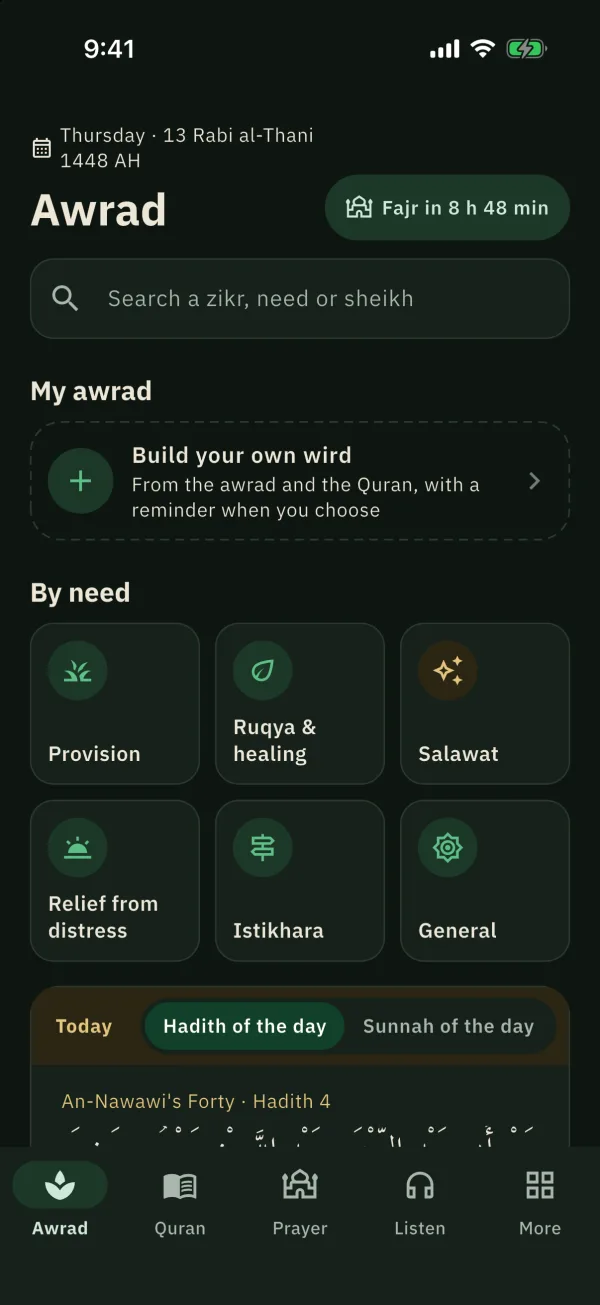
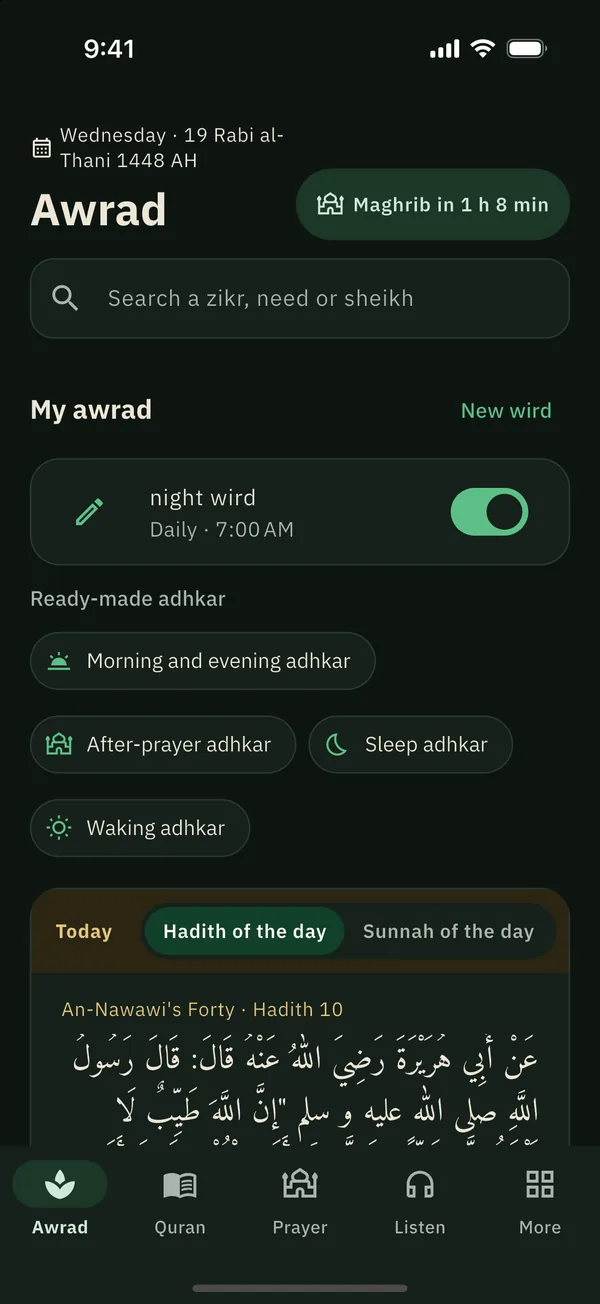
Wirdi 1.3 case study: new screenshots and details
Nine fresh screenshots, updated numbers, the features added since 1.2
and two new sections on the Mushaf rebuild and on content and accessibility.

diff --git a/work/wirdi.html b/work/wirdi.html
@@ -4,9 +4,9 @@
 <meta charset="utf-8">
 <meta name="viewport" content="width=device-width, initial-scale=1">
 <title>Wirdi — Ayman Omara</title>
-<meta name="description" content="Wirdi, a Flutter app for the daily wird, the Quran and prayer times: designed and built solo, with a native Android adhan plugin and home-screen widgets.">
+<meta name="description" content="Wirdi, a Flutter app for the daily wird, the Quran and prayer times: designed and built solo, with a native Android adhan plugin, home-screen widgets and on-device recitation checking.">
 <meta property="og:title" content="Wirdi — case study by Ayman Omara">
-<meta property="og:description" content="Wirdi, a Flutter app for the daily wird, the Quran and prayer times: designed and built solo, with a native Android adhan plugin and home-screen widgets.">
+<meta property="og:description" content="Wirdi, a Flutter app for the daily wird, the Quran and prayer times: designed and built solo, with a native Android adhan plugin, home-screen widgets and on-device recitation checking.">
 <meta property="og:image" content="https://aymanomara.github.io/assets/social-preview.png">
 <meta property="og:type" content="article">
 <meta name="twitter:card" content="summary_large_image">
@@ -39,25 +39,35 @@
     <a class="case-back" href="../#project-wirdi"><span aria-hidden="true">←</span> All work</a>
     <div class="eyebrow">CASE STUDY · PERSONAL PRODUCT · FLUTTER</div>
     <h1>Your daily wird, the Quran and prayer times in one app.</h1>
-    <p class="lead">Wirdi (وِردي) brings awrad and adhkar, the Quran with recitations and tafsir, and prayer times with the adhan into one Arabic and English app. I designed and built it on my own, from the architecture to the native Android parts.</p>
-    <div class="case-facts"><div><b>19</b><span>Features</span></div><div><b>247</b><span>Of 249 commits</span></div><div><b>740+</b><span>Automated tests</span></div><div><b>2</b><span>Languages, with RTL</span></div></div>
+    <p class="lead">Wirdi (وِردي) brings awrad and adhkar, the Quran with recitations, tafsir and a memorization plan, and prayer times with the adhan into one Arabic and English app. I designed and built it on my own, from the architecture to the native Android parts.</p>
+    <div class="case-facts"><div><b>23</b><span>Feature modules</span></div><div><b>502</b><span>Of 518 commits</span></div><div><b>1,400+</b><span>Automated tests</span></div><div><b>2</b><span>Languages, with RTL</span></div></div>
   </div>
 </header>
 <section style="padding-top:0">
   <div class="wrap">
     <figure class="case-screens-wrap" style="margin:0;--glow:#0f7a47">
-      <div class="case-screens"><div class="phone phone-shot"><div class="phone-screen"><img src="../assets/wirdi/quran.webp" alt="Quran reader showing Surah Al Fatiha" width="600" height="1304" loading="lazy" decoding="async"></div></div><div class="phone phone-shot"><div class="phone-screen"><img src="../assets/wirdi/home.webp" alt="Awrad home screen with search, your own wird and awrad by need" width="600" height="1304" loading="lazy" decoding="async"></div></div><div class="phone phone-shot"><div class="phone-screen"><img src="../assets/wirdi/prayer.webp" alt="Prayer times with the next prayer and a countdown" width="600" height="1304" loading="lazy" decoding="async"></div></div></div>
-      <figcaption>Real screenshots from the iOS app in dark mode. Prayer times shown for Riyadh.</figcaption>
+      <div class="case-screens"><div class="phone phone-shot"><div class="phone-screen"><img src="../assets/wirdi/quran.webp?v=1.3" alt="Mushaf page reader showing Surah Al Fatiha" width="600" height="1304" loading="lazy" decoding="async"></div></div><div class="phone phone-shot"><div class="phone-screen"><img src="../assets/wirdi/home.webp?v=1.3" alt="Awrad home screen with search, my awrad, ready-made adhkar and the hadith of the day" width="600" height="1304" loading="lazy" decoding="async"></div></div><div class="phone phone-shot"><div class="phone-screen"><img src="../assets/wirdi/prayer.webp?v=1.3" alt="Prayer times with the next prayer, a countdown and the prayer log" width="600" height="1304" loading="lazy" decoding="async"></div></div></div>
+      <figcaption>Real screenshots from the iOS app in dark mode. Prayer times shown for Cairo.</figcaption>
     </figure>
   </div>
 </section>
 <section>
   <div class="wrap">
     <div class="case-body"><h2>The problem</h2><div><p>A daily wird usually means several apps: one for adhkar, one for the Quran, one for prayer times and the adhan. Wirdi puts them in one place, arranged <strong>by need</strong>: provision, healing, relief from distress, istikhara and more, with a counter for each zikr.</p></div></div>
-    <div class="case-body"><h2>What I built</h2><div><ul><li><strong>Awrad and your own wird</strong>: awrad and adhkar by need with a counter, favourites, search, and a personal wird built from the awrad and the Quran with a reminder at the time you choose.</li><li><strong>The Quran</strong>: a Mushaf page reader, surahs, juz and bookmarks, recitations from chosen reciters that keep playing in the background, live Quran radio from Cairo and Saudi Arabia, and tafsir read ayah by ayah.</li><li><strong>Prayer</strong>: times for your location, the next prayer with a countdown, a choice of adhan voice, and a qibla compass.</li><li><strong>Library</strong>: a hadith and a sunnah every day, the six hadith books and the forties, and a Hijri calendar with occasions and the Ramadan timetable.</li><li>A guided onboarding and an in-app tour, Arabic and English with RTL, and light and dark themes.</li></ul></div></div>
-    <div class="case-body"><h2>Native Android</h2><div><p>Notifications alone could not play a full adhan reliably, so I wrote a <strong>local Android plugin</strong> in Kotlin. It schedules each prayer with <code>AlarmManager.setAlarmClock</code>, falls back when exact alarms aren’t allowed, and plays the adhan from a foreground media service with a Stop action, <strong>even when the app is closed</strong>. Workmanager keeps the schedule current from a background isolate.</p><p>Three <strong>home-screen widgets</strong> (next prayer, today’s prayers and the Hijri date) are also native Kotlin.</p></div></div>
-    <div class="case-body"><h2>Architecture</h2><div><div class="layers"><div class="layer"><code>lib</code><span>Screens and one Cubit per screen, 19 feature folders</span></div><div class="layer-arrow" aria-hidden="true">↓ depends on</div><div class="layer"><code>di</code><span>get_it registration that wires the layers together</span></div><div class="layer-arrow" aria-hidden="true">↓ depends on</div><div class="layer"><code>data</code><span>API clients, local storage and repository implementations</span></div><div class="layer-arrow" aria-hidden="true">↓ depends on</div><div class="layer"><code>domain</code><span>Entities and repository contracts</span></div><div class="layer-arrow" aria-hidden="true">↓ depends on</div><div class="layer"><code>common</code><span>Shared types and utilities used by every layer</span></div></div></div></div>
-    <div class="case-body"><h2>Outcome</h2><div><p>One app in place of several, built by one developer: <strong>19 features</strong> on separate common, domain, data and di packages, with <strong>740+ automated tests</strong>, in Arabic and English.</p></div></div>
+    <div class="case-body"><h2>What I built</h2><div><ul><li><strong>Awrad and your own wird</strong>: awrad by need with a counter, favourites and search; a catalogue of 275 adhkar, duas and salawat, each with its hadith source and grade; ready-made morning and evening, after-prayer, sleep and waking adhkar; and a personal wird built from all of it and the Quran, with a reminder at the time you choose.</li><li><strong>Set up your wird</strong>: a short guided flow that asks what you want to pray for (16 needs, from relief and provision to parents and children) and sets up your adhkar, a khatma and a memorization plan in one go.</li><li><strong>The Quran</strong>: a Mushaf page reader, surahs, juz and bookmarks, tafsir ayah by ayah, a khatma planner that adapts the daily portion, a memorization plan with near and far review, sharing an ayah as an image, recitations that keep playing in the background, and live Quran radio from Cairo and Saudi Arabia.</li><li><strong>Recite aloud</strong>: say the page from memory and the app follows you word by word. A Quran-trained speech model runs on the phone, and a matcher I wrote in pure Dart lines up what it hears with the words of the mushaf.</li><li><strong>Prayer</strong>: times for your location, the next prayer with a countdown, a choice of adhan voice, a prayer log with streaks, a Friday card, and a qibla compass.</li><li><strong>Ramadan</strong>: the imsakiyya, imsak and iftar countdowns, a fasting record with the days you owe, tarawih by night, a suhoor reminder, and the adhkar of fasting.</li><li><strong>Library</strong>: a hadith and a sunnah every day, the six hadith books and the forties, 25 stories of the prophets told from the Quran, and a Hijri calendar with occasions.</li><li><strong>Tasbih and progress</strong>: a free counter drawn as a real sebha, bead by bead, in five materials; and a progress page with your run of active days. Everything stays on the phone.</li><li>One search across the whole app, a guided onboarding and in-app tour, Arabic and English with RTL, light and dark themes, and an in-app notice when a new version is out.</li></ul></div></div>
+    <figure class="case-screens-wrap" style="margin:80px 0;--glow:#0f7a47">
+      <div class="case-screens"><div class="phone phone-shot"><div class="phone-screen"><img src="../assets/wirdi/sebha.webp?v=1.3" alt="Tasbih screen: an amber sebha with 11 of 33 beads counted" width="600" height="1304" loading="lazy" decoding="async"></div></div><div class="phone phone-shot"><div class="phone-screen"><img src="../assets/wirdi/prophets.webp?v=1.3" alt="Stories of the Prophets list with a decorated card for the Prophet Muhammad" width="600" height="1304" loading="lazy" decoding="async"></div></div><div class="phone phone-shot"><div class="phone-screen"><img src="../assets/wirdi/ramadan.webp?v=1.3" alt="Ramadan screen with the imsakiyya, a Ramadan khatma and a 30-day fasting record" width="600" height="1304" loading="lazy" decoding="async"></div></div></div>
+      <figcaption>Added in 1.3: the sebha, stories of the prophets and Ramadan.</figcaption>
+    </figure>
+    <div class="case-body"><h2>Native Android</h2><div><p>Notifications alone could not play a full adhan reliably, so I wrote a <strong>local Android plugin</strong> in Kotlin. It schedules each prayer with <code>AlarmManager.setAlarmClock</code>, falls back when exact alarms aren’t allowed, and plays the adhan from a foreground media service with a Stop action, <strong>even when the app is closed</strong>. Workmanager keeps the schedule current from a background isolate.</p><p>Seven <strong>home-screen widgets</strong> are also native Kotlin: next prayer, today’s prayers, the Hijri date, hadith of the day, sunnah of the day, ayah of the day, and an ayah or hadith reminder that can sit on the lock screen. An optional card shows a short reminder each time you unlock the phone, and the volume keys count on the zikr counter.</p></div></div>
+    <div class="case-body"><h2>The Mushaf</h2><div><p>The first reader loaded one font per page, which cost memory on every page turn. I rebuilt it to draw all 604 pages from <strong>a single Hafs font</strong> and per-line word data, with the tajweed-coloured pages kept as an option. Two guard tests protect it: one checks all <strong>6,236 ayat word for word</strong> against the source text, the other lays out every page and fails on any overflow.</p></div></div>
+    <div class="case-body"><h2>Content and accessibility</h2><div><p>Religious text can’t be approximate. Each dhikr in the catalogue carries its source and grade, and the build script <strong>fails</strong> if an entry has no source or if a stated virtue isn’t found in its own evidence. Nothing ships until it has been reviewed and approved.</p><p>Screen readers can count on the counters and the sebha, hear each Mushaf page as its ayat, and find every button named. Touch targets are at least 48 points, and an accessibility check runs inside the screen tests.</p></div></div>
+    <figure class="case-screens-wrap" style="margin:80px 0;--glow:#0f7a47">
+      <div class="case-screens"><div class="phone phone-shot"><div class="phone-screen"><img src="../assets/wirdi/quran-tab.webp?v=1.3" alt="Quran tab with continue reading, a khatma plan, a memorization plan with recitation, and tafsir" width="600" height="1304" loading="lazy" decoding="async"></div></div><div class="phone phone-shot"><div class="phone-screen"><img src="../assets/wirdi/setup.webp?v=1.3" alt="Setup flow asking what you would like to pray for, with needs to choose from" width="600" height="1304" loading="lazy" decoding="async"></div></div><div class="phone phone-shot"><div class="phone-screen"><img src="../assets/wirdi/calendar.webp?v=1.3" alt="Hijri calendar with upcoming occasions and the month grid" width="600" height="1304" loading="lazy" decoding="async"></div></div></div>
+      <figcaption>The Quran tab, the wird setup flow and the Hijri calendar.</figcaption>
+    </figure>
+    <div class="case-body"><h2>Architecture</h2><div><div class="layers"><div class="layer"><code>lib</code><span>Screens and one Cubit per screen, 23 feature folders</span></div><div class="layer-arrow" aria-hidden="true">↓ depends on</div><div class="layer"><code>di</code><span>get_it registration that wires the layers together</span></div><div class="layer-arrow" aria-hidden="true">↓ depends on</div><div class="layer"><code>data</code><span>API clients, local storage and repository implementations</span></div><div class="layer-arrow" aria-hidden="true">↓ depends on</div><div class="layer"><code>domain</code><span>Entities and repository contracts</span></div><div class="layer-arrow" aria-hidden="true">↓ depends on</div><div class="layer"><code>common</code><span>Shared types and utilities used by every layer</span></div></div></div></div>
+    <div class="case-body"><h2>Outcome</h2><div><p>One app in place of several, built by one developer: <strong>23 feature modules</strong> on separate common, domain, data and di packages, with <strong>1,400+ automated tests</strong>, in Arabic and English.</p></div></div>
     <div class="case-body" id="download"><h2>Try it</h2><div><p style="display:flex;flex-wrap:wrap;gap:12px;margin-bottom:22px"><a class="btn primary" href="https://github.com/AymanOmara/wirdi/releases/latest/download/Wirdi.apk">Download for Android ↓</a></p><p>Wirdi 1.3 is a single APK (127 MB) for <strong>Android 7.0 or later</strong> on 64-bit ARM phones. It isn’t on Google Play yet, so Android will ask you to allow your browser or file manager to install unknown apps the first time. Allow notifications and alarms when asked so the adhan and wird reminders work. Install steps and the checksum are on the <a href="https://github.com/AymanOmara/wirdi/releases/latest" target="_blank" rel="noopener">release page ↗</a>.</p></div></div>
   </div>
 </section>

diff --git a/ar/index.html b/ar/index.html
@@ -156,10 +156,10 @@
         <div class="tags"><span class="tag">Kotlin</span><span class="tag">Jetpack Compose</span><span class="tag">Koin</span><span class="tag">Retrofit</span></div>
       </article>
       <article class="proj reveal with-art" data-cat="flutter" id="project-wirdi">
-        <div class="project-art art-mini art-emerald" style="--tilt:-5deg"><span class="project-art-label" aria-hidden="true">القرآن والصلاة وورِدك في تطبيق واحد.</span><span class="mock-note">لقطة حقيقية من التطبيق، الوضع الداكن.</span><div class="phone phone-art phone-shot"><div class="phone-screen"><img src="../assets/wirdi/home.webp" alt="الشاشة الرئيسية لتطبيق وِردي في الوضع الداكن" width="600" height="1304" loading="lazy" decoding="async"></div></div></div>
+        <div class="project-art art-mini art-emerald" style="--tilt:-5deg"><span class="project-art-label" aria-hidden="true">القرآن والصلاة وورِدك في تطبيق واحد.</span><span class="mock-note">لقطة حقيقية من التطبيق، الوضع الداكن.</span><div class="phone phone-art phone-shot"><div class="phone-screen"><img src="../assets/wirdi/home.webp?v=1.3" alt="الشاشة الرئيسية لتطبيق وِردي في الوضع الداكن" width="600" height="1304" loading="lazy" decoding="async"></div></div></div>
         <div class="proj-top"><div class="proj-ico">08 /</div><div class="proj-links"><a href="https://github.com/AymanOmara/wirdi/releases/latest" target="_blank" rel="noopener">تنزيل لأندرويد ↖</a></div></div>
         <h3>وِردي (Wirdi)</h3><div class="kind">منتج شخصي · Flutter · iOS وأندرويد</div>
-        <dl class="project-story"><div><dt>التحدي</dt><dd>تطبيق واحد للورد اليومي: الأوراد والأذكار حسب الحاجة، والقرآن قراءةً واستماعًا مع التفسير، ومواقيت الصلاة مع الأذان، بالعربية والإنجليزية.</dd></div><div><dt>مساهمتي</dt><dd>صممته وبنيته وحدي (247 من 249 التزامًا) على حزم منفصلة من common وdomain وdata وdi، مع إضافة أندرويد أصلية تشغّل الأذان كاملًا في وقته حتى والتطبيق مغلق، وودجات للشاشة الرئيسية بلغة Kotlin.</dd></div><div><dt>النتيجة</dt><dd>19 ميزة، من قارئ المصحف والتقويم الهجري إلى القبلة والتلاوات في الخلفية، بمظهرين فاتح وداكن، وأكثر من 740 اختبارًا آليًا.</dd></div></dl>
+        <dl class="project-story"><div><dt>التحدي</dt><dd>تطبيق واحد للورد اليومي: الأوراد والأذكار حسب الحاجة، والقرآن قراءةً واستماعًا وحفظًا مع التفسير، ومواقيت الصلاة مع الأذان، بالعربية والإنجليزية.</dd></div><div><dt>مساهمتي</dt><dd>صممته وبنيته وحدي (502 من 518 التزامًا) على حزم منفصلة من common وdomain وdata وdi، مع إضافة أندرويد أصلية تشغّل الأذان كاملًا في وقته حتى والتطبيق مغلق، وسبع ودجات للشاشة الرئيسية بلغة Kotlin، وتسميع بالصوت يعمل على الهاتف نفسه.</dd></div><div><dt>النتيجة</dt><dd>23 ميزة، من قارئ المصحف وخطة الحفظ ووضع رمضان إلى السبحة والقبلة والتلاوات في الخلفية، بمظهرين فاتح وداكن، وأكثر من 1400 اختبار آلي.</dd></div></dl>
         <div class="tags"><span class="tag">Flutter</span><span class="tag">Cubit</span><span class="tag">get_it</span><span class="tag">Kotlin</span><span class="tag">الإشعارات</span><span class="tag">RTL</span></div>
         <a class="case-link" href="../work/wirdi.html">اقرأ دراسة الحالة (بالإنجليزية) <span aria-hidden="true">←</span></a>
       </article>

diff --git a/index.html b/index.html
@@ -163,10 +163,10 @@
         <div class="tags"><span class="tag">Kotlin</span><span class="tag">Jetpack Compose</span><span class="tag">Koin</span><span class="tag">Retrofit</span></div>
       </article>
       <article class="proj reveal with-art" data-cat="flutter" id="project-wirdi">
-        <div class="project-art art-mini art-emerald" style="--tilt:-5deg"><span class="project-art-label" aria-hidden="true">QURAN, PRAYER AND YOUR WIRD. ONE APP.</span><span class="mock-note">Real app screenshot, dark mode.</span><div class="phone phone-art phone-shot"><div class="phone-screen"><img src="assets/wirdi/home.webp" alt="Wirdi home screen in dark mode" width="600" height="1304" loading="lazy" decoding="async"></div></div></div>
+        <div class="project-art art-mini art-emerald" style="--tilt:-5deg"><span class="project-art-label" aria-hidden="true">QURAN, PRAYER AND YOUR WIRD. ONE APP.</span><span class="mock-note">Real app screenshot, dark mode.</span><div class="phone phone-art phone-shot"><div class="phone-screen"><img src="assets/wirdi/home.webp?v=1.3" alt="Wirdi home screen in dark mode" width="600" height="1304" loading="lazy" decoding="async"></div></div></div>
         <div class="proj-top"><div class="proj-ico">08 /</div><div class="proj-links"><a href="https://github.com/AymanOmara/wirdi/releases/latest" target="_blank" rel="noopener">Android APK ↗</a></div></div>
         <h3>Wirdi</h3><div class="kind">Personal product · Flutter · iOS &amp; Android</div>
-        <dl class="project-story"><div><dt>Challenge</dt><dd>One app for a daily wird: awrad and adhkar by need, the Quran to read, listen to and study with tafsir, and prayer times with the adhan, in Arabic and English.</dd></div><div><dt>My contribution</dt><dd>Designed and built it alone (247 of 249 commits) on separate common, domain, data and di packages, plus a native Android plugin that plays the full adhan on time even when the app is closed, and home-screen widgets in Kotlin.</dd></div><div><dt>Outcome</dt><dd>19 features, from a Mushaf reader and Hijri calendar to the qibla and background recitations, in light and dark themes, backed by 740+ automated tests.</dd></div></dl>
+        <dl class="project-story"><div><dt>Challenge</dt><dd>One app for a daily wird: awrad and adhkar by need, the Quran to read, listen to, memorize and study with tafsir, and prayer times with the adhan, in Arabic and English.</dd></div><div><dt>My contribution</dt><dd>Designed and built it alone (502 of 518 commits) on separate common, domain, data and di packages, plus a native Android plugin that plays the full adhan on time even when the app is closed, seven home-screen widgets in Kotlin, and on-device recitation checking.</dd></div><div><dt>Outcome</dt><dd>23 feature modules, from a Mushaf reader, memorization plan and Ramadan mode to a sebha, the qibla and background recitations, in light and dark themes, backed by 1,400+ automated tests.</dd></div></dl>
         <div class="tags"><span class="tag">Flutter</span><span class="tag">Cubit</span><span class="tag">get_it</span><span class="tag">Kotlin</span><span class="tag">Notifications</span><span class="tag">RTL</span></div>
         <a class="case-link" href="work/wirdi.html">Read the case study <span aria-hidden="true">→</span></a>
       </article>
